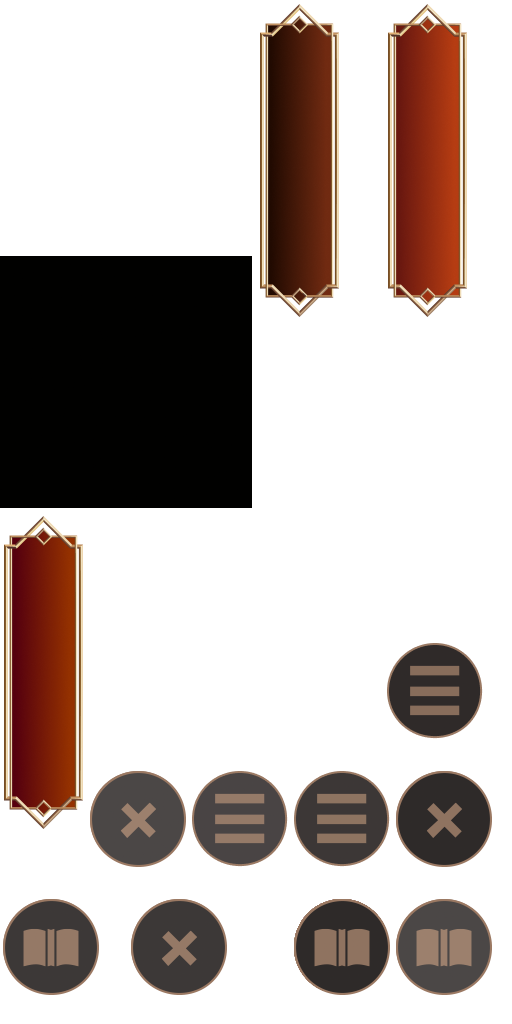
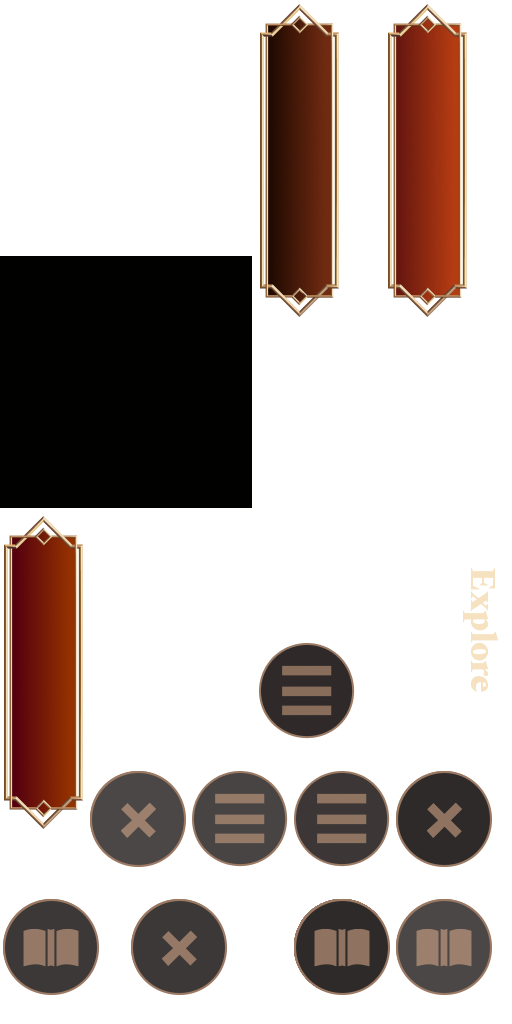
01

Changed region(s): [[0.75, 0.5312, 0.9688, 0.7188], [0.5, 0.625, 0.6875, 0.7188]]

diff --git a/scripts/objRefTable.js b/scripts/objRefTable.js
@@ -47,7 +47,6 @@ self.C3_GetObjectRefTable = function () {
 		C3.Plugins.Sprite.Acts.SetY,
 		C3.Plugins.Sprite.Exps.Height,
 		C3.Plugins.Sprite.Cnds.CompareY,
-		C3.Plugins.Text.Cnds.CompareText,
 		C3.Plugins.System.Acts.SetLayerVisible
 	];
 };
@@ -80,7 +79,6 @@ self.C3_JsPropNameTable = [
 	{Clickme: 0},
 	{Group: 0},
 	{Button_11: 0},
-	{Text_11: 0},
 	{Button_21: 0},
 	{Button_22: 0},
 	{Text_21: 0},
@@ -91,7 +89,8 @@ self.C3_JsPropNameTable = [
 	{Text_31: 0},
 	{Text_32: 0},
 	{Text_33: 0},
-	{Apartment: 0}
+	{Apartment: 0},
+	{Text_11: 0}
 ];
 
 self.InstanceType = {
@@ -113,7 +112,6 @@ self.InstanceType = {
 	Transition: class extends self.ISpriteInstance {},
 	Clickme: class extends self.ISpriteInstance {},
 	Button_11: class extends self.ISpriteInstance {},
-	Text_11: class extends self.ITextInstance {},
 	Button_21: class extends self.ISpriteInstance {},
 	Button_22: class extends self.ISpriteInstance {},
 	Text_21: class extends self.ITextInstance {},
@@ -124,5 +122,6 @@ self.InstanceType = {
 	Text_31: class extends self.ITextInstance {},
 	Text_32: class extends self.ITextInstance {},
 	Text_33: class extends self.ITextInstance {},
-	Apartment: class extends self.ISpriteInstance {}
+	Apartment: class extends self.ISpriteInstance {},
+	Text_11: class extends self.ISpriteInstance {}
 }

diff --git a/scripts/c3runtime.js b/scripts/c3runtime.js
@@ -1454,7 +1454,6 @@ self.C3_ExpressionFuncs = [
 			return () => ((((1100 + 30) + n0.ExpObject()) + n1.ExpObject()) + 50);
 		},
 		() => "2",
-		() => "Explore",
 		p => {
 			const n0 = p._GetNode(0);
 			const n1 = p._GetNode(1);
